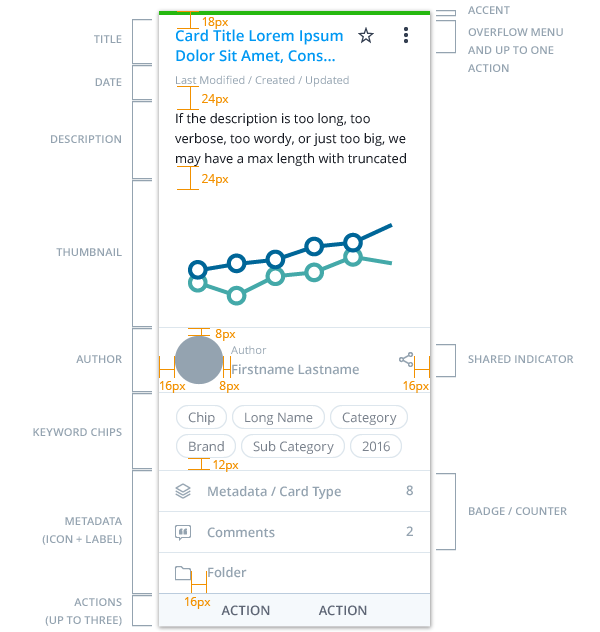
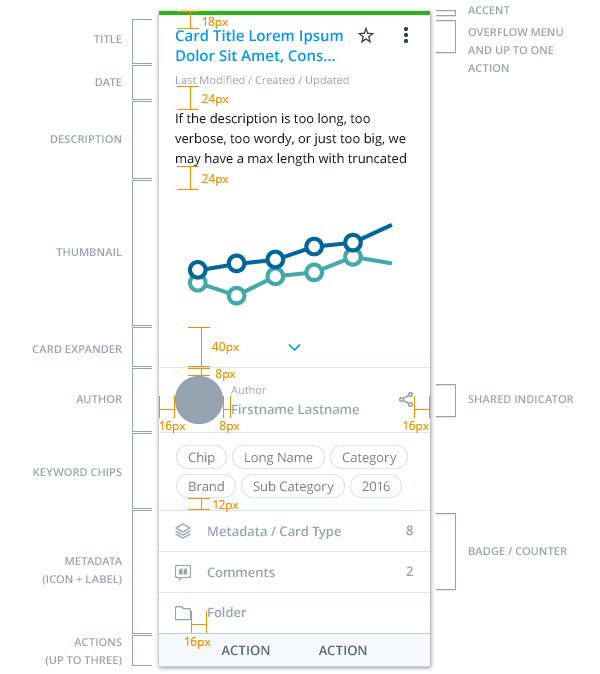
Revise Pattern: Card (Vertical)

diff --git a/p_card_vertical.php b/p_card_vertical.php
@@ -20,7 +20,7 @@
 		<article id="guidelines">
 			<div id="container">
 				<section>
-					<h4>Large Card / All Content Types</h4>
+					<h4>All Card Contents</h4>
 					<img src="img/guide/p_card_vertical_01.png" alt="Large Card / All Content Types">
 				</section>
 				<!-- -->
@@ -30,7 +30,7 @@
 				</section>
 				<!-- -->
 				<section>
-					<h4>Small Card Examples</h4>
+					<h4>Small Card</h4>
 					<img src="img/guide/p_card_vertical_03.png" alt="Small Card Examples">
 				</section>
 				<!-- -->
@@ -58,6 +58,7 @@
 						<dd class="pg_link"><a href="card.php">Card Component</a></dd>
 						<dd class="pg_link"><a href="p_card_wide.php">Wide Card Patterns</a></dd>
 						<dd class="pg_link"><a href="chip.php">Chip Component</a></dd>
+						<dd class="pg_link"><a href="icon.php">Icon Component</a></dd>
 					</dl>
 					<!-- -->
 					<dl class="dl_root">
@@ -80,6 +81,9 @@
 								<dd>Weight: 600</dd>
 								<dd>Line Height: <span class="pxrem">20px</span></dd>
 								<!-- -->
+								<dt>Icons</dt>
+								<dd>See Icon component</dd>
+								<!-- -->
 								<dt>Date</dt>
 								<dd>Text: 11px (8pt) <span title="Gray 500" class="theme">#94A3B0</span></dd>
 								<dd>Weight: 400</dd>
@@ -88,6 +92,11 @@
 								<dt>Description</dt>
 								<dd>Text: 13px (10pt) <span title="Gray 900" class="theme">#151921</span></dd>
 								<dd>Line Height: <span class="pxrem">20px</span></dd>
+								<!-- -->
+								<dt>Card Expander</dt>
+								<dd class="note">Click to expand and collapse metadata. Card actions remain visible when the card is collapsed.</dd>
+								<br>
+								<dd class="note">Expandable cards are optional. Medium cards can display small amounts of metadata without expanding and collapsing.</dd>
 								<!-- -->
 								<dt>Author</dt>
 								<dd>Label: 11px (8pt)</dd>
@@ -113,13 +122,23 @@
 							</dl>
 						</dd>
 						<!-- -->
-						<dt>Small Cards</dt>
-						<dd class="note">Small Cards display up to:
-							<ul>
-								<li>• One title line</li>
-								<li>• Two subheader lines</li>
-								<li>• One thumbnail</li>
-							</ul>
+						<dt>Small Card</dt>
+						<dd>
+							<dl class="sub">
+								<dt>Card Contents</dt>
+								<dd class="note">Small Cards display up to:
+									<ul>
+										<li>• One Title line</li>
+										<li>• Two Subheader lines</li>
+										<li>• One Thumbnail</li>
+									</ul>
+								</dd>
+								<!-- -->
+								<dt>Subheaders</dt>
+								<dd>Text: 11px (8pt) <span title="Gray 500" class="theme">#94A3B0</span></dd>
+								<dd>Weight: 400</dd>
+								<dd>Line Height: <span class="pxrem">20px</span></dd>
+							</dl>
 						</dd>
 						<!-- -->
 						<dt>Selectable Cards</dt>
